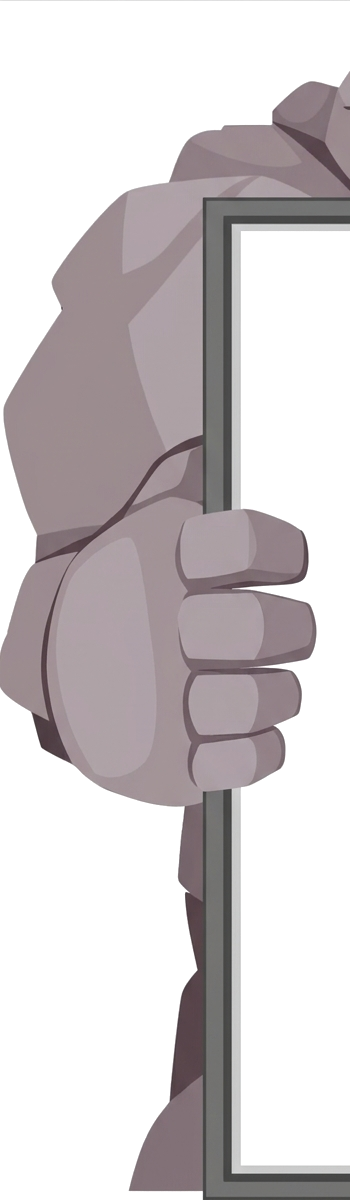
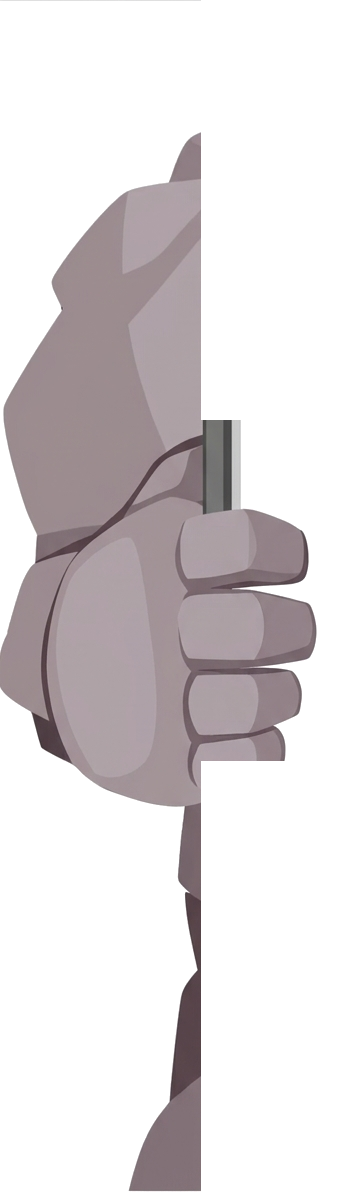
fix(copilot): position StoneMan fully inside viewport and prevent button overlap

Changed region(s): [[0.5714, 0.0617, 1.0, 0.37], [0.5714, 0.6167, 1.0, 1.0]]

diff --git a/src/components/copilot/Copilot.tsx b/src/components/copilot/Copilot.tsx
@@ -435,10 +435,10 @@ export function Copilot() {
           <DialogPrimitive.Overlay className="fixed inset-0 z-50 bg-black/60 backdrop-blur-xs transition-opacity duration-300 data-[state=closed]:animate-out data-[state=closed]:fade-out-0 data-[state=open]:animate-in data-[state=open]:fade-in-0" />
           <DialogPrimitive.Content
             className={cn(
-              "fixed z-50 flex flex-col justify-end overflow-visible focus:outline-none transition-all duration-300",
+              "fixed z-50 flex flex-col items-center justify-end overflow-visible focus:outline-none transition-all duration-300",
               isWideScreen
-                ? "inset-x-3 sm:inset-x-auto sm:left-1/2 sm:-translate-x-1/2 bottom-3 sm:bottom-6 top-28 sm:top-36 w-full sm:w-[780px] md:w-[860px] max-w-[calc(100vw-24px)] h-[calc(100dvh-130px)] max-h-[860px]"
-                : "right-2 sm:right-6 md:right-8 bottom-3 sm:bottom-6 top-28 sm:top-36 w-full sm:w-[500px] md:w-[540px] max-w-[calc(100vw-16px)] h-[calc(100dvh-130px)] max-h-[840px]",
+                ? "inset-x-3 sm:inset-x-auto sm:left-1/2 sm:-translate-x-1/2 bottom-3 sm:bottom-4 w-full sm:w-[760px] md:w-[840px] max-w-[calc(100vw-24px)] h-[min(90dvh,820px)]"
+                : "right-2 sm:right-6 md:right-8 bottom-3 sm:bottom-4 w-full sm:w-[480px] md:w-[520px] max-w-[calc(100vw-16px)] h-[min(90dvh,780px)]",
             )}
           >
             <DialogPrimitive.Title className="sr-only">
@@ -448,44 +448,26 @@ export function Copilot() {
               Intelligent big screen held by StoneMan Mascot
             </DialogPrimitive.Description>
 
-            {/* StoneMan Mascot Holding the Screen from the Top */}
-            <div className="pointer-events-none absolute -top-[135px] sm:-top-[160px] md:-top-[178px] left-1/2 -translate-x-1/2 w-[340px] sm:w-[420px] md:w-[460px] z-30 select-none flex flex-col items-center">
-              {/* Stone Energy Glow Aura */}
-              <div className="absolute top-8 left-1/2 -translate-x-1/2 w-48 h-24 rounded-full bg-teal-500/25 blur-3xl -z-10 animate-pulse" />
+            {/* StoneMan Mascot Sitting on Top & Holding the Screen */}
+            <div className="relative z-20 flex w-full justify-center select-none pointer-events-none -mb-5 sm:-mb-6 shrink-0">
+              {/* Stone Energy Aura Glow */}
+              <div className="absolute top-2 left-1/2 -translate-x-1/2 w-48 h-20 rounded-full bg-teal-500/25 blur-2xl -z-10 animate-pulse" />
               <img
                 src="/stoneman-peeking-top.png"
-                alt="StoneMan Mascot holding screen from top"
-                className="w-full h-auto drop-shadow-[0_14px_28px_rgba(0,0,0,0.65)] select-none pointer-events-none"
+                alt="StoneMan AI Mascot"
+                className="h-24 sm:h-32 md:h-36 w-auto max-w-full object-contain drop-shadow-[0_12px_24px_rgba(0,0,0,0.65)] select-none pointer-events-none"
                 draggable={false}
               />
             </div>
 
-            {/* Left Rock Arm Hugging the Window from Behind */}
-            <div className="pointer-events-none absolute -left-7 sm:-left-11 md:-left-13 top-16 bottom-16 w-14 sm:w-18 md:w-22 z-0 select-none overflow-visible flex items-center">
-              <img
-                src="/stoneman-left-arm.png"
-                alt=""
-                aria-hidden="true"
-                className="h-full w-auto max-w-none object-contain object-right opacity-95 drop-shadow-[0_10px_22px_rgba(0,0,0,0.55)] select-none pointer-events-none"
-                draggable={false}
-              />
-            </div>
-
-            {/* Right Rock Arm Hugging the Window from Behind */}
-            <div className="pointer-events-none absolute -right-7 sm:-right-11 md:-right-13 top-16 bottom-16 w-14 sm:w-18 md:w-22 z-0 select-none overflow-visible flex items-center">
-              <img
-                src="/stoneman-right-arm.png"
-                alt=""
-                aria-hidden="true"
-                className="h-full w-auto max-w-none object-contain object-left opacity-95 drop-shadow-[0_10px_22px_rgba(0,0,0,0.55)] select-none pointer-events-none"
-                draggable={false}
-              />
-            </div>
+            {/* Stone Body Hugging the Window from the Back */}
+            <div className="pointer-events-none absolute -inset-1.5 sm:-inset-2.5 top-14 bottom-2 -z-10 rounded-[28px] sm:rounded-[36px] bg-gradient-to-b from-slate-700/50 via-slate-850/40 to-slate-900/60 border border-slate-700/50 shadow-2xl backdrop-blur-xs" />
+            <div className="pointer-events-none absolute -inset-3 sm:-inset-5 top-12 bottom-0 -z-20 rounded-[36px] bg-teal-500/10 blur-2xl" />
 
             {/* The Big Screen Console Frame */}
-            <div className="relative z-10 flex h-full w-full flex-col overflow-hidden rounded-2xl sm:rounded-3xl border-2 sm:border-[3px] border-slate-700/80 bg-slate-950/95 shadow-[0_25px_80px_rgba(0,0,0,0.7)] backdrop-blur-2xl ring-1 ring-teal-500/30 text-slate-100">
-              {/* Screen Top Bezel Notch */}
-              <div className="flex h-5 w-full items-center justify-center bg-slate-900/90 border-b border-slate-800/80 px-4 select-none">
+            <div className="relative z-10 flex flex-1 min-h-0 w-full flex-col overflow-hidden rounded-2xl sm:rounded-3xl border-2 sm:border-[3px] border-slate-700/80 bg-slate-950/95 shadow-[0_25px_80px_rgba(0,0,0,0.7)] backdrop-blur-2xl ring-1 ring-teal-500/30 text-slate-100">
+              {/* Screen Top Bezel Grip Notch (held by StoneMan's hands) */}
+              <div className="flex h-7 w-full items-center justify-center bg-slate-900/90 border-b border-slate-800/80 px-4 select-none shrink-0">
                 <div className="flex items-center gap-1.5 px-2.5 py-0.5 rounded-full bg-slate-950 border border-slate-800 text-[9px] font-mono tracking-widest text-teal-400">
                   <span className="relative flex h-1.5 w-1.5">
                     <span className="animate-ping absolute inline-flex h-full w-full rounded-full bg-teal-400 opacity-75" />
